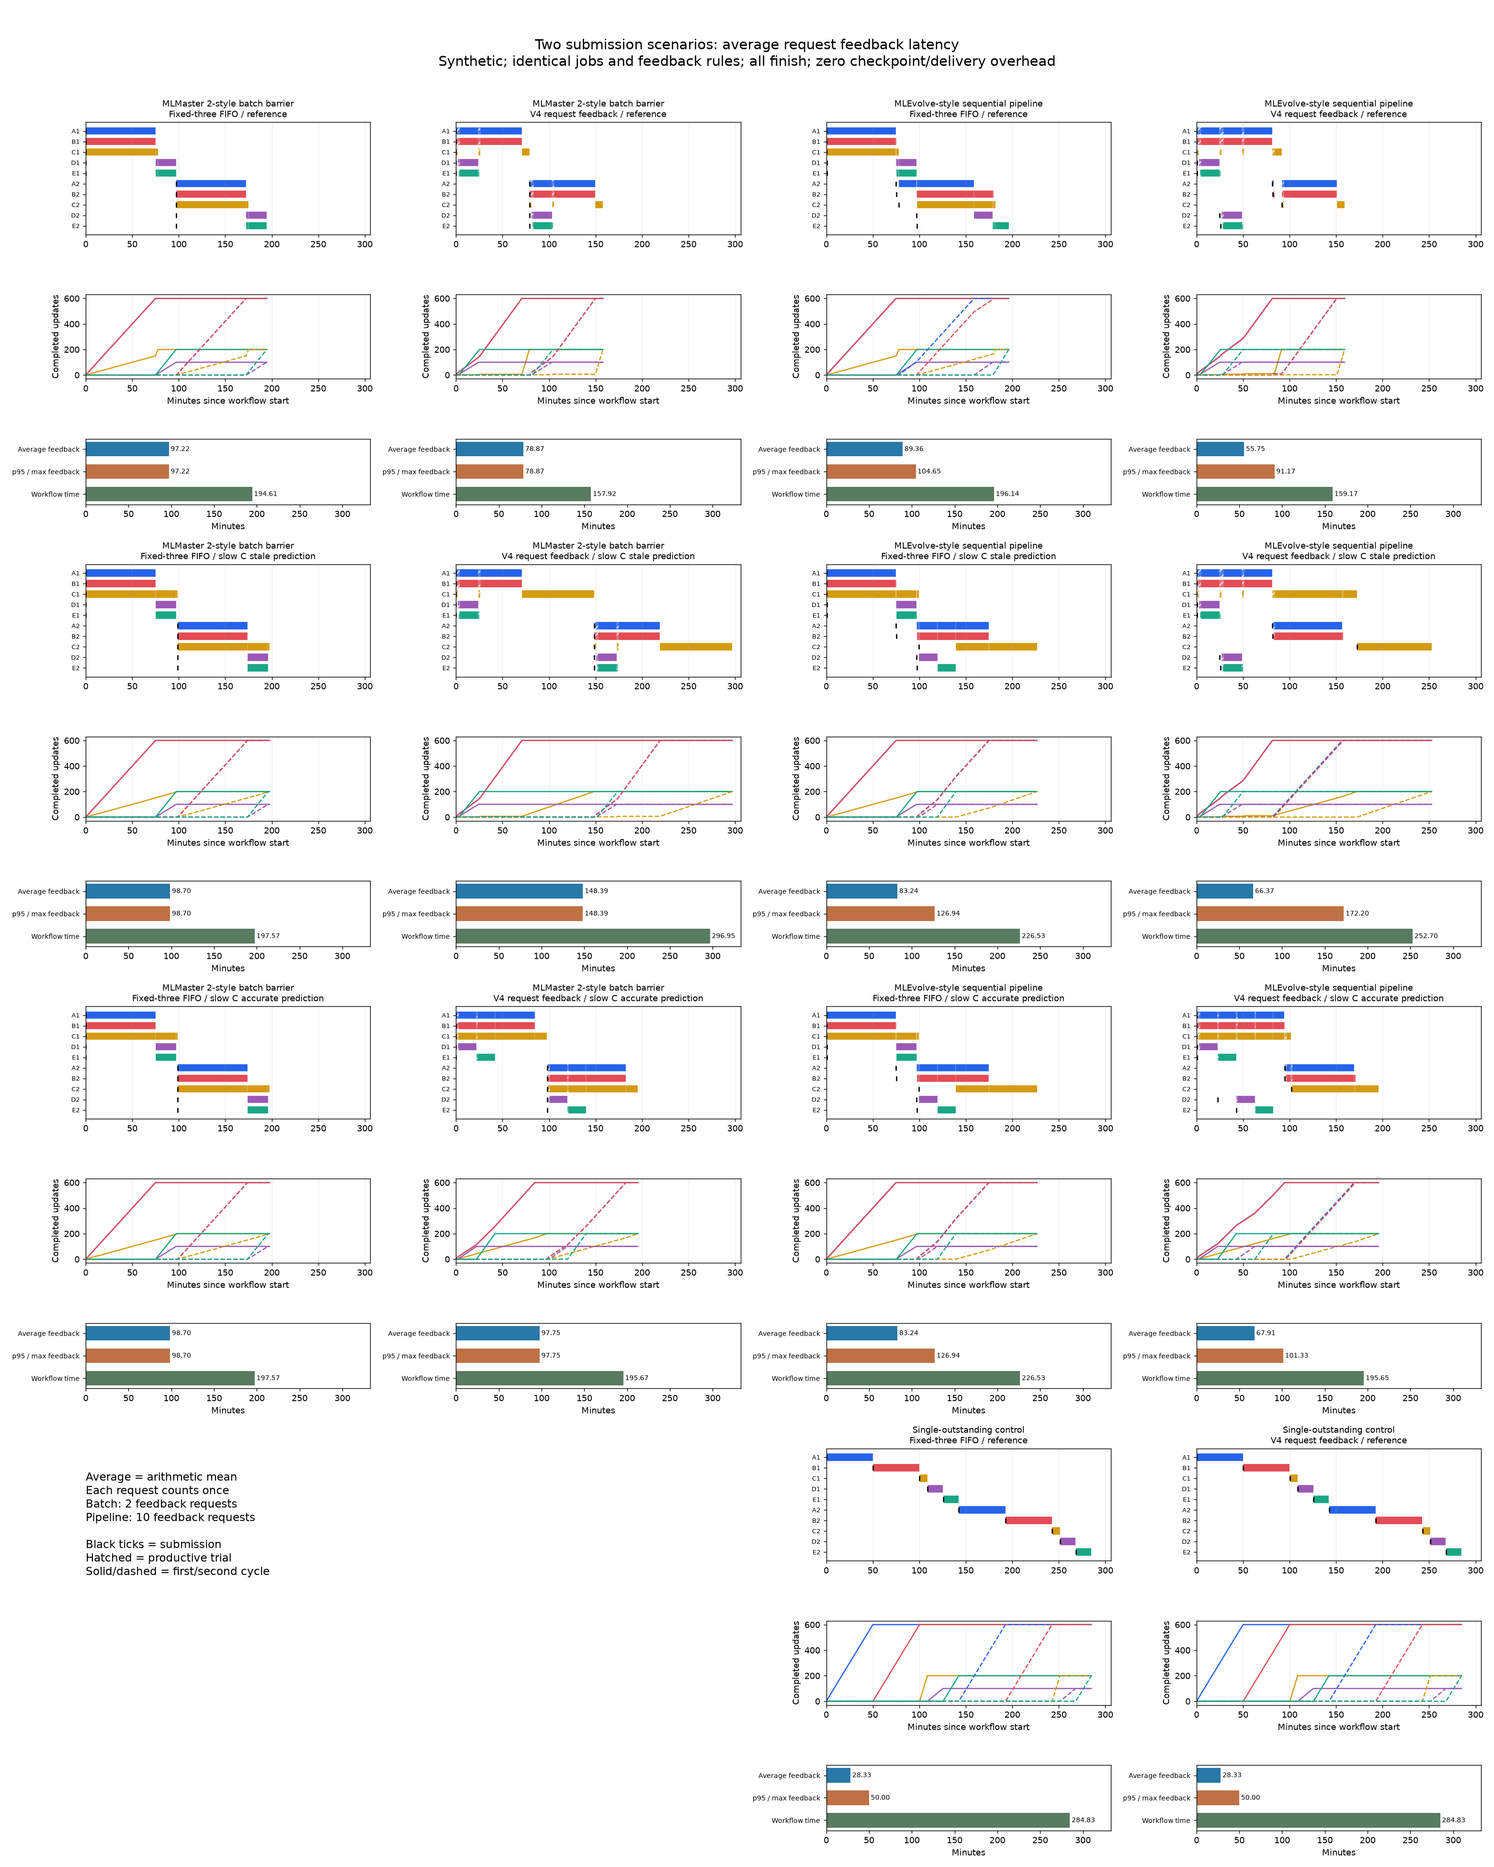
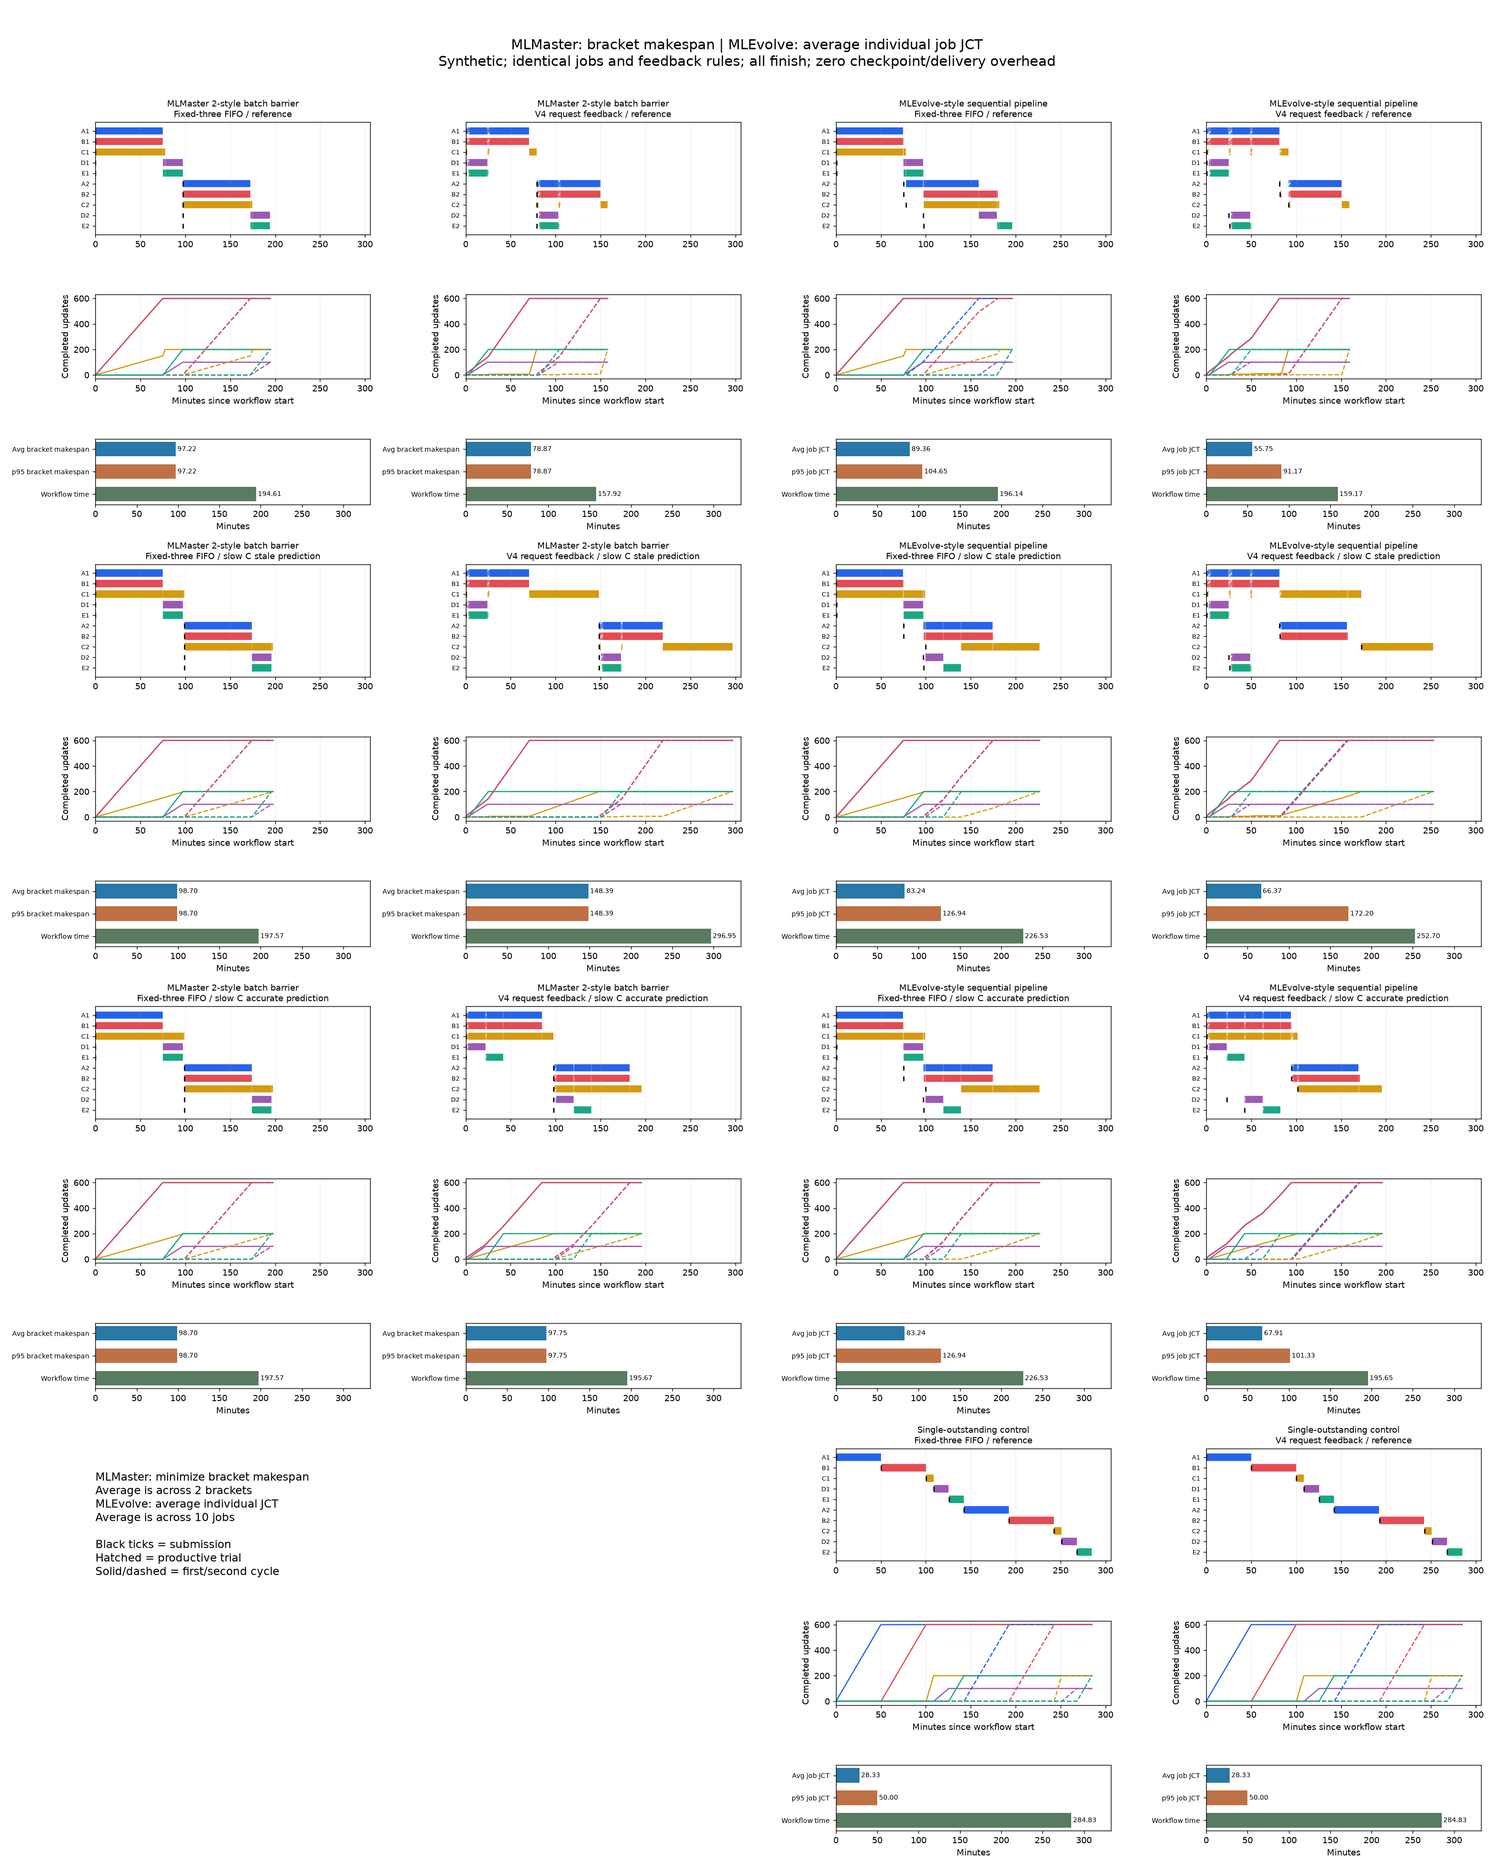
Clarify MLMaster bracket makespan objective in design and experiments

diff --git a/benchmarks/feedback_v4/submission_scenarios.py b/benchmarks/feedback_v4/submission_scenarios.py
@@ -220,7 +220,7 @@ def verify(result):
 
 
 def report(results, controls):
-    text = '''# Average feedback latency under two submission scenarios
+    text = '''# MLMaster bracket makespan and MLEvolve individual job JCT
 
 Synthetic experiment, 2026-10-28. “Average” here is the arithmetic mean: each
 feedback request has weight one. Mean job JCT already weights jobs equally;
@@ -231,6 +231,17 @@ For Q requests, average feedback = sum(C_q - a_q)/Q. For a batch, C_q is the
 last required member's result; for an individual request it is that job's result.
 There are two batch requests or ten individual requests in the scenarios below.
 Compare policies **within** each scenario; the two averages count different events.
+
+**MLMaster's admission objective is bracket makespan, not average member-job
+time.** For bracket b submitted at A_b, M_b = max(C_i for i in bracket b) - A_b.
+One outstanding group request makes the shared scorer exactly this maximum.
+The admission gain is predicted defer-last-completion minus predicted
+admit-last-completion; both measurement halves must pass the one-second margin.
+“Average bracket makespan” in the tables averages the two bracket durations.
+The next bracket is generated only after the preceding bracket returns all results.
+Total workflow time is the sum of bracket makespans plus the inter-bracket think
+delay. For MLEvolve's pipeline, average individual job JCT is the primary metric.
+This naming clarification leaves the already-correct group scoring unchanged.
 
 The main comparison contains only fixed-three FIFO and v4. V3 is removed from
 these tables and the chart; earlier five-job results remain a historical appendix.
@@ -286,12 +297,16 @@ equals the maximum; there is too little data for a reliable tail estimate.
 '''
     for case in CASES:
         text += '\n## ' + case.replace('_', ' ') + '\n\n'
-        text += '| Submission scenario | Policy | Average feedback | p95/max feedback | Average job JCT | Workflow makespan |\n|---|---|---:|---:|---:|---:|\n'
-        for r in results:
-            if r['case'] != case:
-                continue
-            m = r['metrics']
-            text += f"| {LABELS[r['scenario']]} | {LABELS[r['policy']]} | {m['average_request_feedback_minutes']:.2f} | {m['p95_request_feedback_minutes']:.2f} | {m['average_job_jct_minutes']:.2f} | {m['workflow_makespan_minutes']:.2f} |\n"
+        for scenario in SCENARIOS:
+            label = 'bracket makespan' if scenario == 'batch_barrier' else 'job JCT'
+            text += f'### {LABELS[scenario]}\n\n'
+            text += f'| Policy | Average {label} | p95/max {label} | Workflow makespan |\n|---|---:|---:|---:|\n'
+            for r in results:
+                if r['case'] != case or r['scenario'] != scenario:
+                    continue
+                m = r['metrics']
+                text += f"| {LABELS[r['policy']]} | {m['average_request_feedback_minutes']:.2f} | {m['p95_request_feedback_minutes']:.2f} | {m['workflow_makespan_minutes']:.2f} |\n"
+            text += '\n'
     text += '\nAll table values are minutes. Per-job arrivals, completions and per-request feedback are in `results.json`.\n'
     text += '\n## Reading the comparison\n\n'
     for scenario in SCENARIOS:
@@ -299,7 +314,8 @@ equals the maximum; there is too little data for a reliable tail estimate.
             base = next(r for r in results if r['scenario'] == scenario and r['case'] == case and r['policy'] == POLICIES[0])
             v4 = next(r for r in results if r['scenario'] == scenario and r['case'] == case and r['policy'] == POLICIES[1])
             change = v4['metrics']['average_request_feedback_minutes'] - base['metrics']['average_request_feedback_minutes']
-            text += f"- {LABELS[scenario]}, {case.replace('_', ' ')}: v4 average feedback is {abs(change):.2f} minutes {'lower' if change < 0 else 'higher'} than fixed-three FIFO.\n"
+            metric_name = 'average bracket makespan' if scenario == 'batch_barrier' else 'average job JCT'
+            text += f"- {LABELS[scenario]}, {case.replace('_', ' ')}: v4 {metric_name} is {abs(change):.2f} minutes {'lower' if change < 0 else 'higher'} than fixed-three FIFO.\n"
     text += f'''
 The strictly-one-outstanding control produces the same schedule under both
 policies: {controls[0]['metrics']['average_request_feedback_minutes']:.2f} minutes
@@ -364,7 +380,8 @@ def plot(results, controls, output):
         keys = ('average_request_feedback_minutes', 'p95_request_feedback_minutes', 'workflow_makespan_minutes')
         values = [r['metrics'][key] for key in keys]
         bars = metric.barh([2, 1, 0], values, color=['#2878a8', '#be7144', '#597b60'], height=.65)
-        metric.set_yticks([2, 1, 0], ['Average feedback', 'p95 / max feedback', 'Workflow time'], fontsize=8)
+        latency_name = 'bracket makespan' if r['scenario'] == 'batch_barrier' else 'job JCT'
+        metric.set_yticks([2, 1, 0], ['Avg ' + latency_name, 'p95 ' + latency_name, 'Workflow time'], fontsize=8)
         metric.set_xlim(0, max(z['metrics']['workflow_makespan_minutes'] for z in results + controls) * 1.12)
         for bar, value in zip(bars, values):
             metric.text(value + 2, bar.get_y() + .32, f'{value:.2f}', va='center', fontsize=8)
@@ -372,8 +389,8 @@ def plot(results, controls, output):
     for row in range(9, 12):
         for col in (0, 1):
             axes[row, col].axis('off')
-    axes[9, 0].text(0, .8, 'Average = arithmetic mean\nEach request counts once\nBatch: 2 feedback requests\nPipeline: 10 feedback requests\n\nBlack ticks = submission\nHatched = productive trial\nSolid/dashed = first/second cycle', fontsize=13, va='top')
-    fig.suptitle('Two submission scenarios: average request feedback latency\nSynthetic; identical jobs and feedback rules; all finish; zero checkpoint/delivery overhead', fontsize=16)
+    axes[9, 0].text(0, .8, 'MLMaster: minimize bracket makespan\nAverage is across 2 brackets\nMLEvolve: average individual JCT\nAverage is across 10 jobs\n\nBlack ticks = submission\nHatched = productive trial\nSolid/dashed = first/second cycle', fontsize=13, va='top')
+    fig.suptitle('MLMaster: bracket makespan | MLEvolve: average individual job JCT\nSynthetic; identical jobs and feedback rules; all finish; zero checkpoint/delivery overhead', fontsize=16)
     fig.tight_layout(rect=[0, 0, 1, .975])
     fig.savefig(output, dpi=130)
     plt.close(fig)

diff --git a/benchmarks/feedback_v4/submission_results/report.md b/benchmarks/feedback_v4/submission_results/report.md
@@ -1,4 +1,4 @@
-# Average feedback latency under two submission scenarios
+# MLMaster bracket makespan and MLEvolve individual job JCT
 
 Synthetic experiment, 2026-10-28. “Average” here is the arithmetic mean: each
 feedback request has weight one. Mean job JCT already weights jobs equally;
@@ -9,6 +9,17 @@ For Q requests, average feedback = sum(C_q - a_q)/Q. For a batch, C_q is the
 last required member's result; for an individual request it is that job's result.
 There are two batch requests or ten individual requests in the scenarios below.
 Compare policies **within** each scenario; the two averages count different events.
+
+**MLMaster's admission objective is bracket makespan, not average member-job
+time.** For bracket b submitted at A_b, M_b = max(C_i for i in bracket b) - A_b.
+One outstanding group request makes the shared scorer exactly this maximum.
+The admission gain is predicted defer-last-completion minus predicted
+admit-last-completion; both measurement halves must pass the one-second margin.
+“Average bracket makespan” in the tables averages the two bracket durations.
+The next bracket is generated only after the preceding bracket returns all results.
+Total workflow time is the sum of bracket makespans plus the inter-bracket think
+delay. For MLEvolve's pipeline, average individual job JCT is the primary metric.
+This naming clarification leaves the already-correct group scoring unchanged.
 
 The main comparison contains only fixed-three FIFO and v4. V3 is removed from
 these tables and the chart; earlier five-job results remain a historical appendix.
@@ -64,41 +75,65 @@ equals the maximum; there is too little data for a reliable tail estimate.
 
 ## reference
 
-| Submission scenario | Policy | Average feedback | p95/max feedback | Average job JCT | Workflow makespan |
-|---|---|---:|---:|---:|---:|
-| MLMaster 2-style batch barrier | Fixed-three FIFO | 97.22 | 97.22 | 84.39 | 194.61 |
-| MLMaster 2-style batch barrier | V4 request feedback | 78.87 | 78.87 | 53.94 | 157.92 |
-| MLEvolve-style sequential pipeline | Fixed-three FIFO | 89.36 | 104.65 | 89.36 | 196.14 |
-| MLEvolve-style sequential pipeline | V4 request feedback | 55.75 | 91.17 | 55.75 | 159.17 |
+### MLMaster 2-style batch barrier
+
+| Policy | Average bracket makespan | p95/max bracket makespan | Workflow makespan |
+|---|---:|---:|---:|
+| Fixed-three FIFO | 97.22 | 97.22 | 194.61 |
+| V4 request feedback | 78.87 | 78.87 | 157.92 |
+
+### MLEvolve-style sequential pipeline
+
+| Policy | Average job JCT | p95/max job JCT | Workflow makespan |
+|---|---:|---:|---:|
+| Fixed-three FIFO | 89.36 | 104.65 | 196.14 |
+| V4 request feedback | 55.75 | 91.17 | 159.17 |
+
 
 ## slow C stale prediction
 
-| Submission scenario | Policy | Average feedback | p95/max feedback | Average job JCT | Workflow makespan |
-|---|---|---:|---:|---:|---:|
-| MLMaster 2-style batch barrier | Fixed-three FIFO | 98.70 | 98.70 | 88.63 | 197.57 |
-| MLMaster 2-style batch barrier | V4 request feedback | 148.39 | 148.39 | 67.84 | 296.95 |
-| MLEvolve-style sequential pipeline | Fixed-three FIFO | 83.24 | 126.94 | 83.24 | 226.53 |
-| MLEvolve-style sequential pipeline | V4 request feedback | 66.37 | 172.20 | 66.37 | 252.70 |
+### MLMaster 2-style batch barrier
+
+| Policy | Average bracket makespan | p95/max bracket makespan | Workflow makespan |
+|---|---:|---:|---:|
+| Fixed-three FIFO | 98.70 | 98.70 | 197.57 |
+| V4 request feedback | 148.39 | 148.39 | 296.95 |
+
+### MLEvolve-style sequential pipeline
+
+| Policy | Average job JCT | p95/max job JCT | Workflow makespan |
+|---|---:|---:|---:|
+| Fixed-three FIFO | 83.24 | 126.94 | 226.53 |
+| V4 request feedback | 66.37 | 172.20 | 252.70 |
+
 
 ## slow C accurate prediction
 
-| Submission scenario | Policy | Average feedback | p95/max feedback | Average job JCT | Workflow makespan |
-|---|---|---:|---:|---:|---:|
-| MLMaster 2-style batch barrier | Fixed-three FIFO | 98.70 | 98.70 | 88.63 | 197.57 |
-| MLMaster 2-style batch barrier | V4 request feedback | 97.75 | 97.75 | 66.25 | 195.67 |
-| MLEvolve-style sequential pipeline | Fixed-three FIFO | 83.24 | 126.94 | 83.24 | 226.53 |
-| MLEvolve-style sequential pipeline | V4 request feedback | 67.91 | 101.33 | 67.91 | 195.65 |
+### MLMaster 2-style batch barrier
+
+| Policy | Average bracket makespan | p95/max bracket makespan | Workflow makespan |
+|---|---:|---:|---:|
+| Fixed-three FIFO | 98.70 | 98.70 | 197.57 |
+| V4 request feedback | 97.75 | 97.75 | 195.67 |
+
+### MLEvolve-style sequential pipeline
+
+| Policy | Average job JCT | p95/max job JCT | Workflow makespan |
+|---|---:|---:|---:|
+| Fixed-three FIFO | 83.24 | 126.94 | 226.53 |
+| V4 request feedback | 67.91 | 101.33 | 195.65 |
+
 
 All table values are minutes. Per-job arrivals, completions and per-request feedback are in `results.json`.
 
 ## Reading the comparison
 
-- MLMaster 2-style batch barrier, reference: v4 average feedback is 18.35 minutes lower than fixed-three FIFO.
-- MLMaster 2-style batch barrier, slow C stale prediction: v4 average feedback is 49.69 minutes higher than fixed-three FIFO.
-- MLMaster 2-style batch barrier, slow C accurate prediction: v4 average feedback is 0.95 minutes lower than fixed-three FIFO.
-- MLEvolve-style sequential pipeline, reference: v4 average feedback is 33.61 minutes lower than fixed-three FIFO.
-- MLEvolve-style sequential pipeline, slow C stale prediction: v4 average feedback is 16.87 minutes lower than fixed-three FIFO.
-- MLEvolve-style sequential pipeline, slow C accurate prediction: v4 average feedback is 15.34 minutes lower than fixed-three FIFO.
+- MLMaster 2-style batch barrier, reference: v4 average bracket makespan is 18.35 minutes lower than fixed-three FIFO.
+- MLMaster 2-style batch barrier, slow C stale prediction: v4 average bracket makespan is 49.69 minutes higher than fixed-three FIFO.
+- MLMaster 2-style batch barrier, slow C accurate prediction: v4 average bracket makespan is 0.95 minutes lower than fixed-three FIFO.
+- MLEvolve-style sequential pipeline, reference: v4 average job JCT is 33.61 minutes lower than fixed-three FIFO.
+- MLEvolve-style sequential pipeline, slow C stale prediction: v4 average job JCT is 16.87 minutes lower than fixed-three FIFO.
+- MLEvolve-style sequential pipeline, slow C accurate prediction: v4 average job JCT is 15.34 minutes lower than fixed-three FIFO.
 
 The strictly-one-outstanding control produces the same schedule under both
 policies: 28.33 minutes

diff --git a/docs/oct-proposed-v4-design.md b/docs/oct-proposed-v4-design.md
@@ -51,6 +51,46 @@ necessarily the end of the entire agent workflow. Minimizing one group's latency
 is equivalent to minimizing that group's last completion; it is not generally
 equivalent to global makespan when several requests arrive at different times.
 
+### MLMaster bracket makespan versus MLEvolve job JCT
+
+For the specified MLMaster workflow, bracket b is submitted together at A_b and
+no further generation starts until every required job in B_b returns. Its
+scheduling objective is therefore the **bracket makespan**:
+
+\[
+M_b=\max_{i\in B_b}C_i-A_b,\qquad \min_\pi M_b(\pi).
+\]
+
+The clock includes waiting after submission and all required result-return work.
+It does not start at the first GPU dispatch. For one outstanding bracket, v4's
+group score is exactly M_b, not the average completion time of its member jobs.
+The two-half admission test reduces to
+
+\[
+\Delta_{b,h}=\max_{i\in B_b}\widehat C_{i,h}(\mathrm{defer})-
+\max_{i\in B_b}\widehat C_{i,h}(\mathrm{admit})\ge\varepsilon.
+\]
+
+An early member completion has value only if it helps the last required result
+arrive sooner. Reducing average member JCT while delaying that last result does
+not improve this objective. The existing `group` implementation already takes
+this maximum, and the simulator already releases the next bracket only after
+the current bracket finishes. This clarification changes presentation, not the
+admission algorithm or its numerical results.
+
+Across a fixed sequence of m brackets, report M_b for each bracket, sum(M_b),
+and average bracket makespan sum(M_b)/m. This last average is **across brackets**,
+never across their member jobs. From the first bracket's submission to the last
+result, total workflow time is sum(M_b) plus inter-bracket generation delays.
+With fixed brackets and fixed generation delays, reducing the sum of bracket
+makespans reduces workflow time; adaptive changes in future jobs require a
+broader evaluation.
+
+For the specified MLEvolve pipeline, each job's result independently enables
+further work, so the primary latency objective remains average individual JCT,
+sum_i(C_i-a_i)/n. Keep tail JCT and total workflow time alongside it. The report
+and chart now name these two primary metrics separately.
+
 The request clock starts before queueing and preparation, and survives retry,
 partial execution, checkpoint and resume. Include all trial time in measured
 latency. Do not end the clock at the last optimizer update. The existing durable

diff --git a/README.md b/README.md
@@ -28,10 +28,11 @@ Reproduce the simulation from the MLEvolve parent using its Python environment:
 python -m localml_scheduler.benchmarks.feedback_v4.submission_scenarios --plot
 ```
 
-The headline metric is **average request feedback time**, with each request
-counting once. Average and arithmetic mean are identical; the change is from
-counting jobs to counting the result events that unblock the agent. Report
-request p95/max and whole-workflow time alongside that average.
+The primary metric is **bracket makespan** for MLMaster's all-results barrier,
+and **average individual job JCT** for MLEvolve's pipeline. Group mode minimizes
+the last required result's time, not average member-job time. When several
+brackets are reported together, average bracket makespan averages those bracket
+durations. Report tail latency and whole-workflow time alongside both metrics.
 
 The main mock compares fixed-three FIFO with v4 under two feedback-dependent
 submission scenarios: MLMaster 2-style batch barriers and MLEvolve-style sequential

diff --git a/benchmarks/feedback_v4/VALIDATION.md b/benchmarks/feedback_v4/VALIDATION.md
@@ -28,6 +28,11 @@ no GPU workload, dataset rewrite, model training, push or deployment was perform
 - Historical five-job rerun: **15 runs**, five jobs completed per run; original
   baseline values and the stale-slope counterexample reproduce numerically.
 - Both combined plots were visually inspected. Whitespace/diff checks passed.
+- Bracket-metric clarification: the MLMaster group path already minimizes the
+  last required completion. Report/chart labels now explicitly distinguish
+  bracket makespan from individual job JCT. Sixteen existing objective/submission
+  tests passed, and regenerating all 12 main runs plus two controls produced
+  exactly unchanged traces, decisions and metrics.
 
 ## Commands
 
